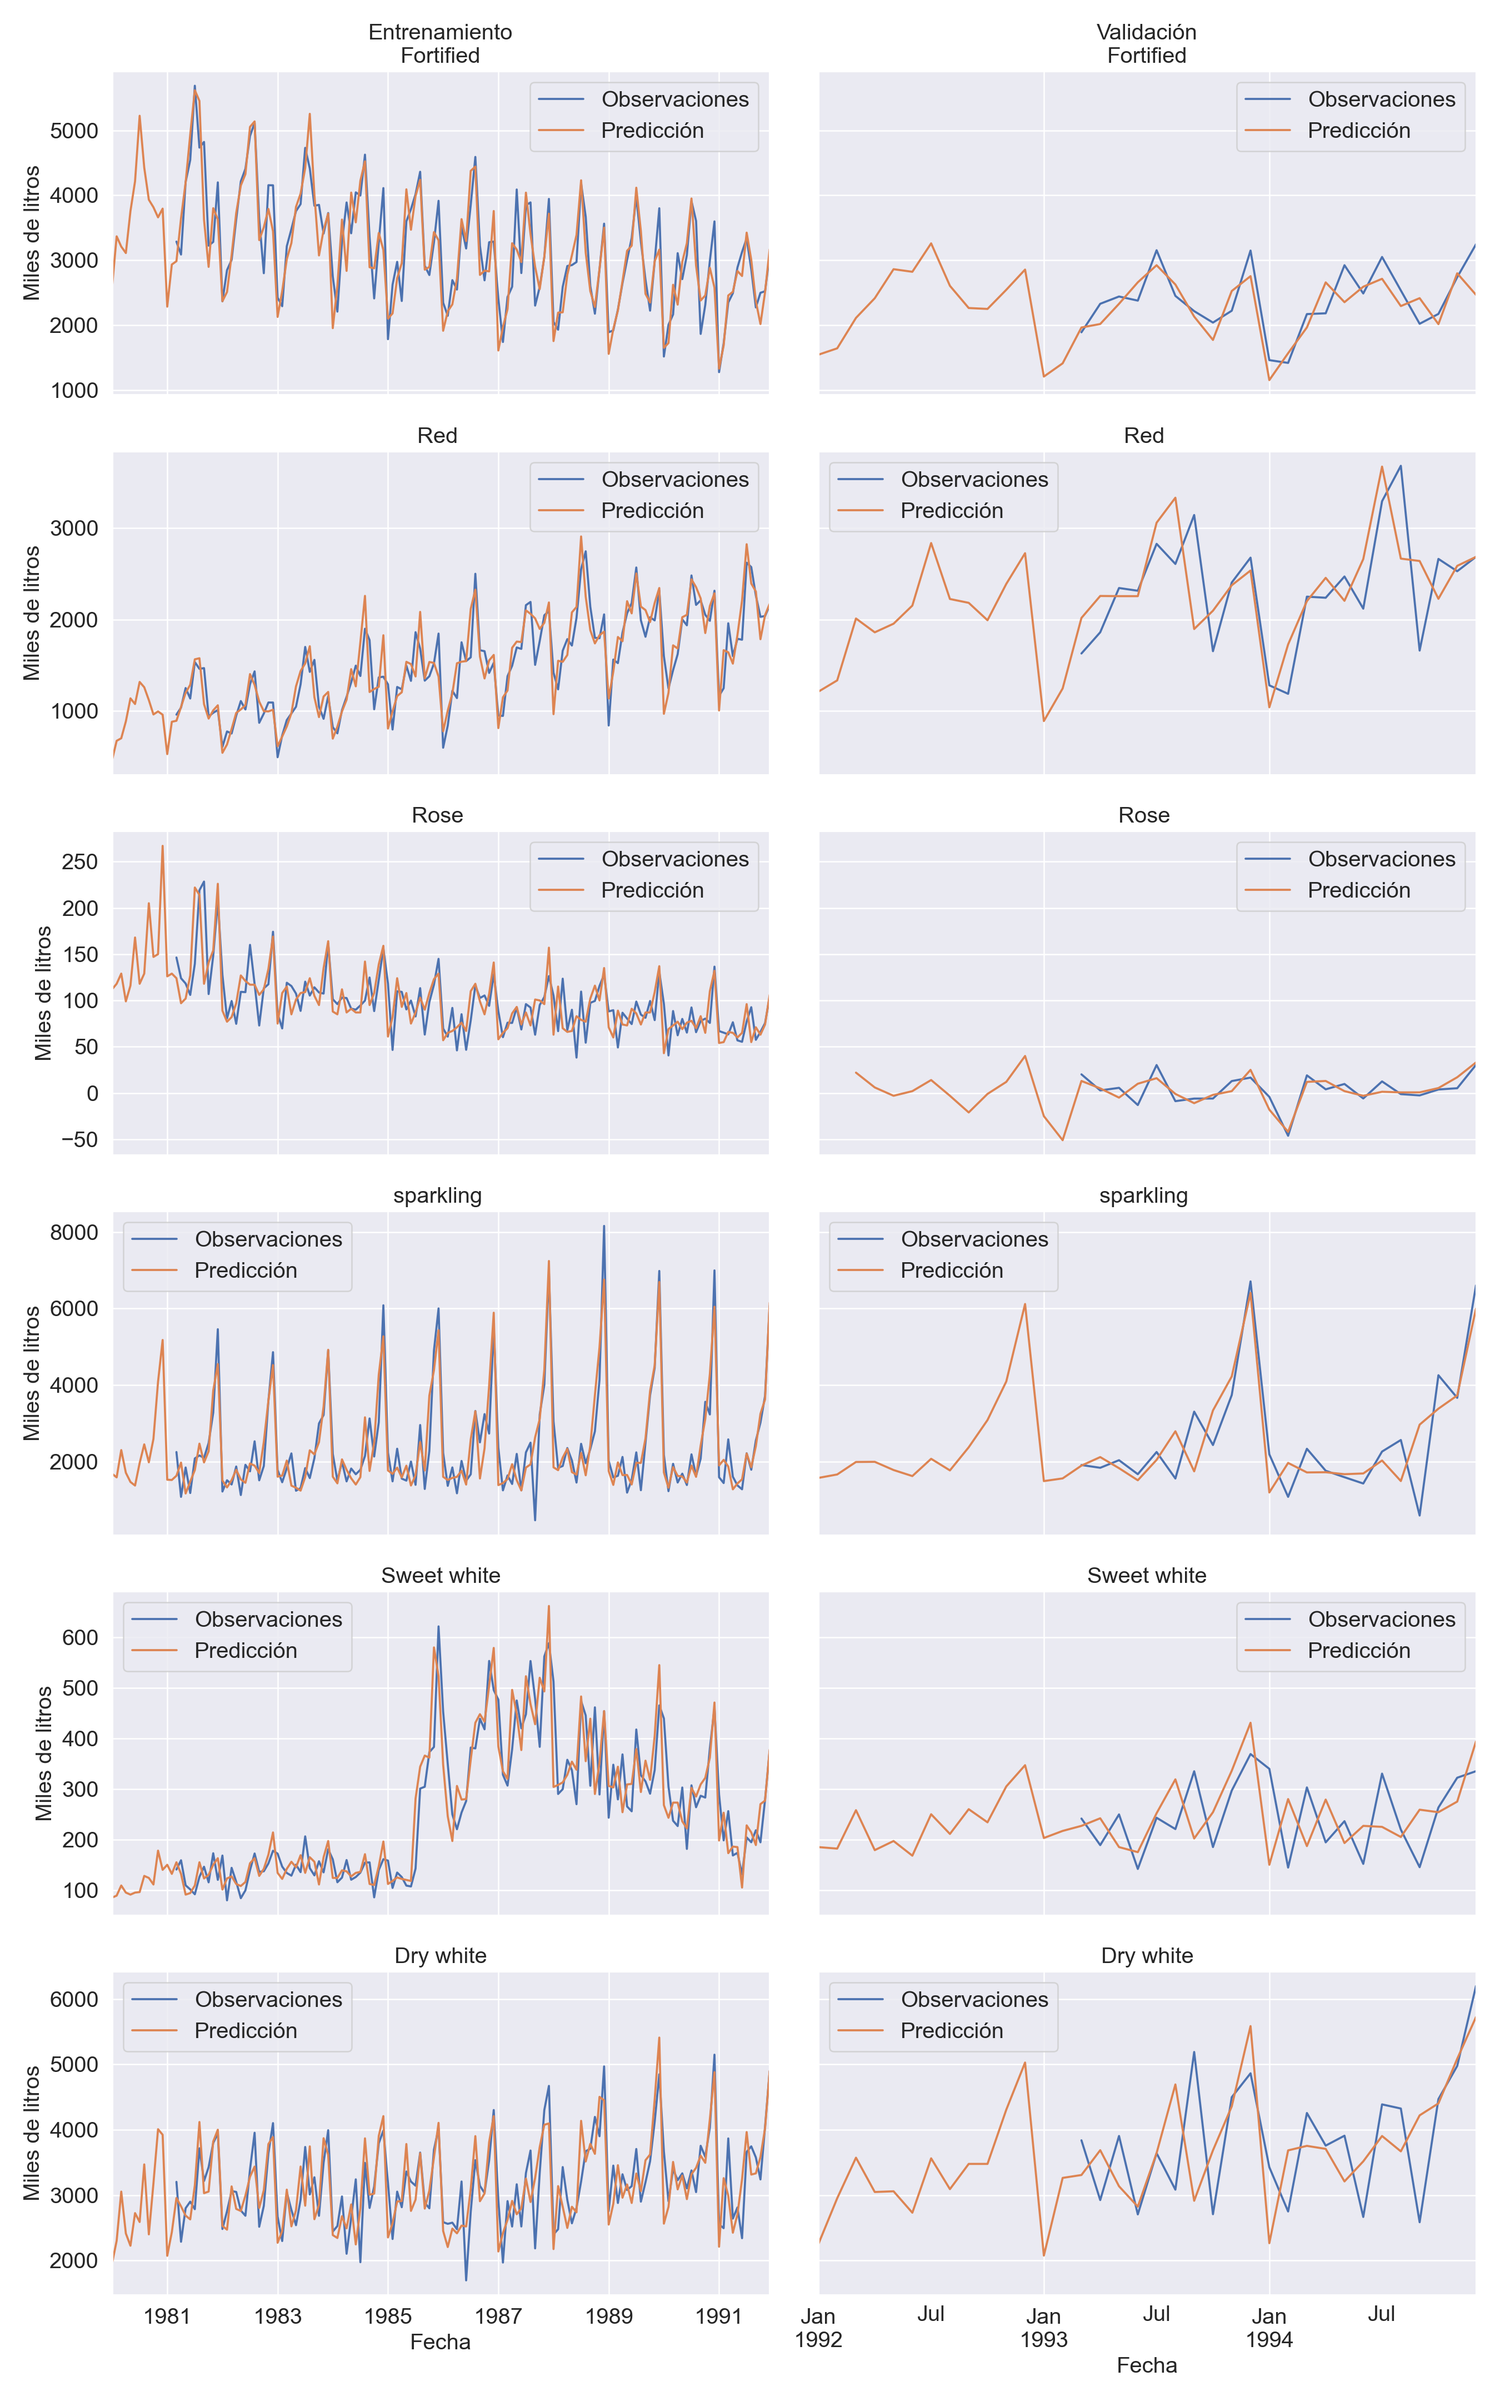
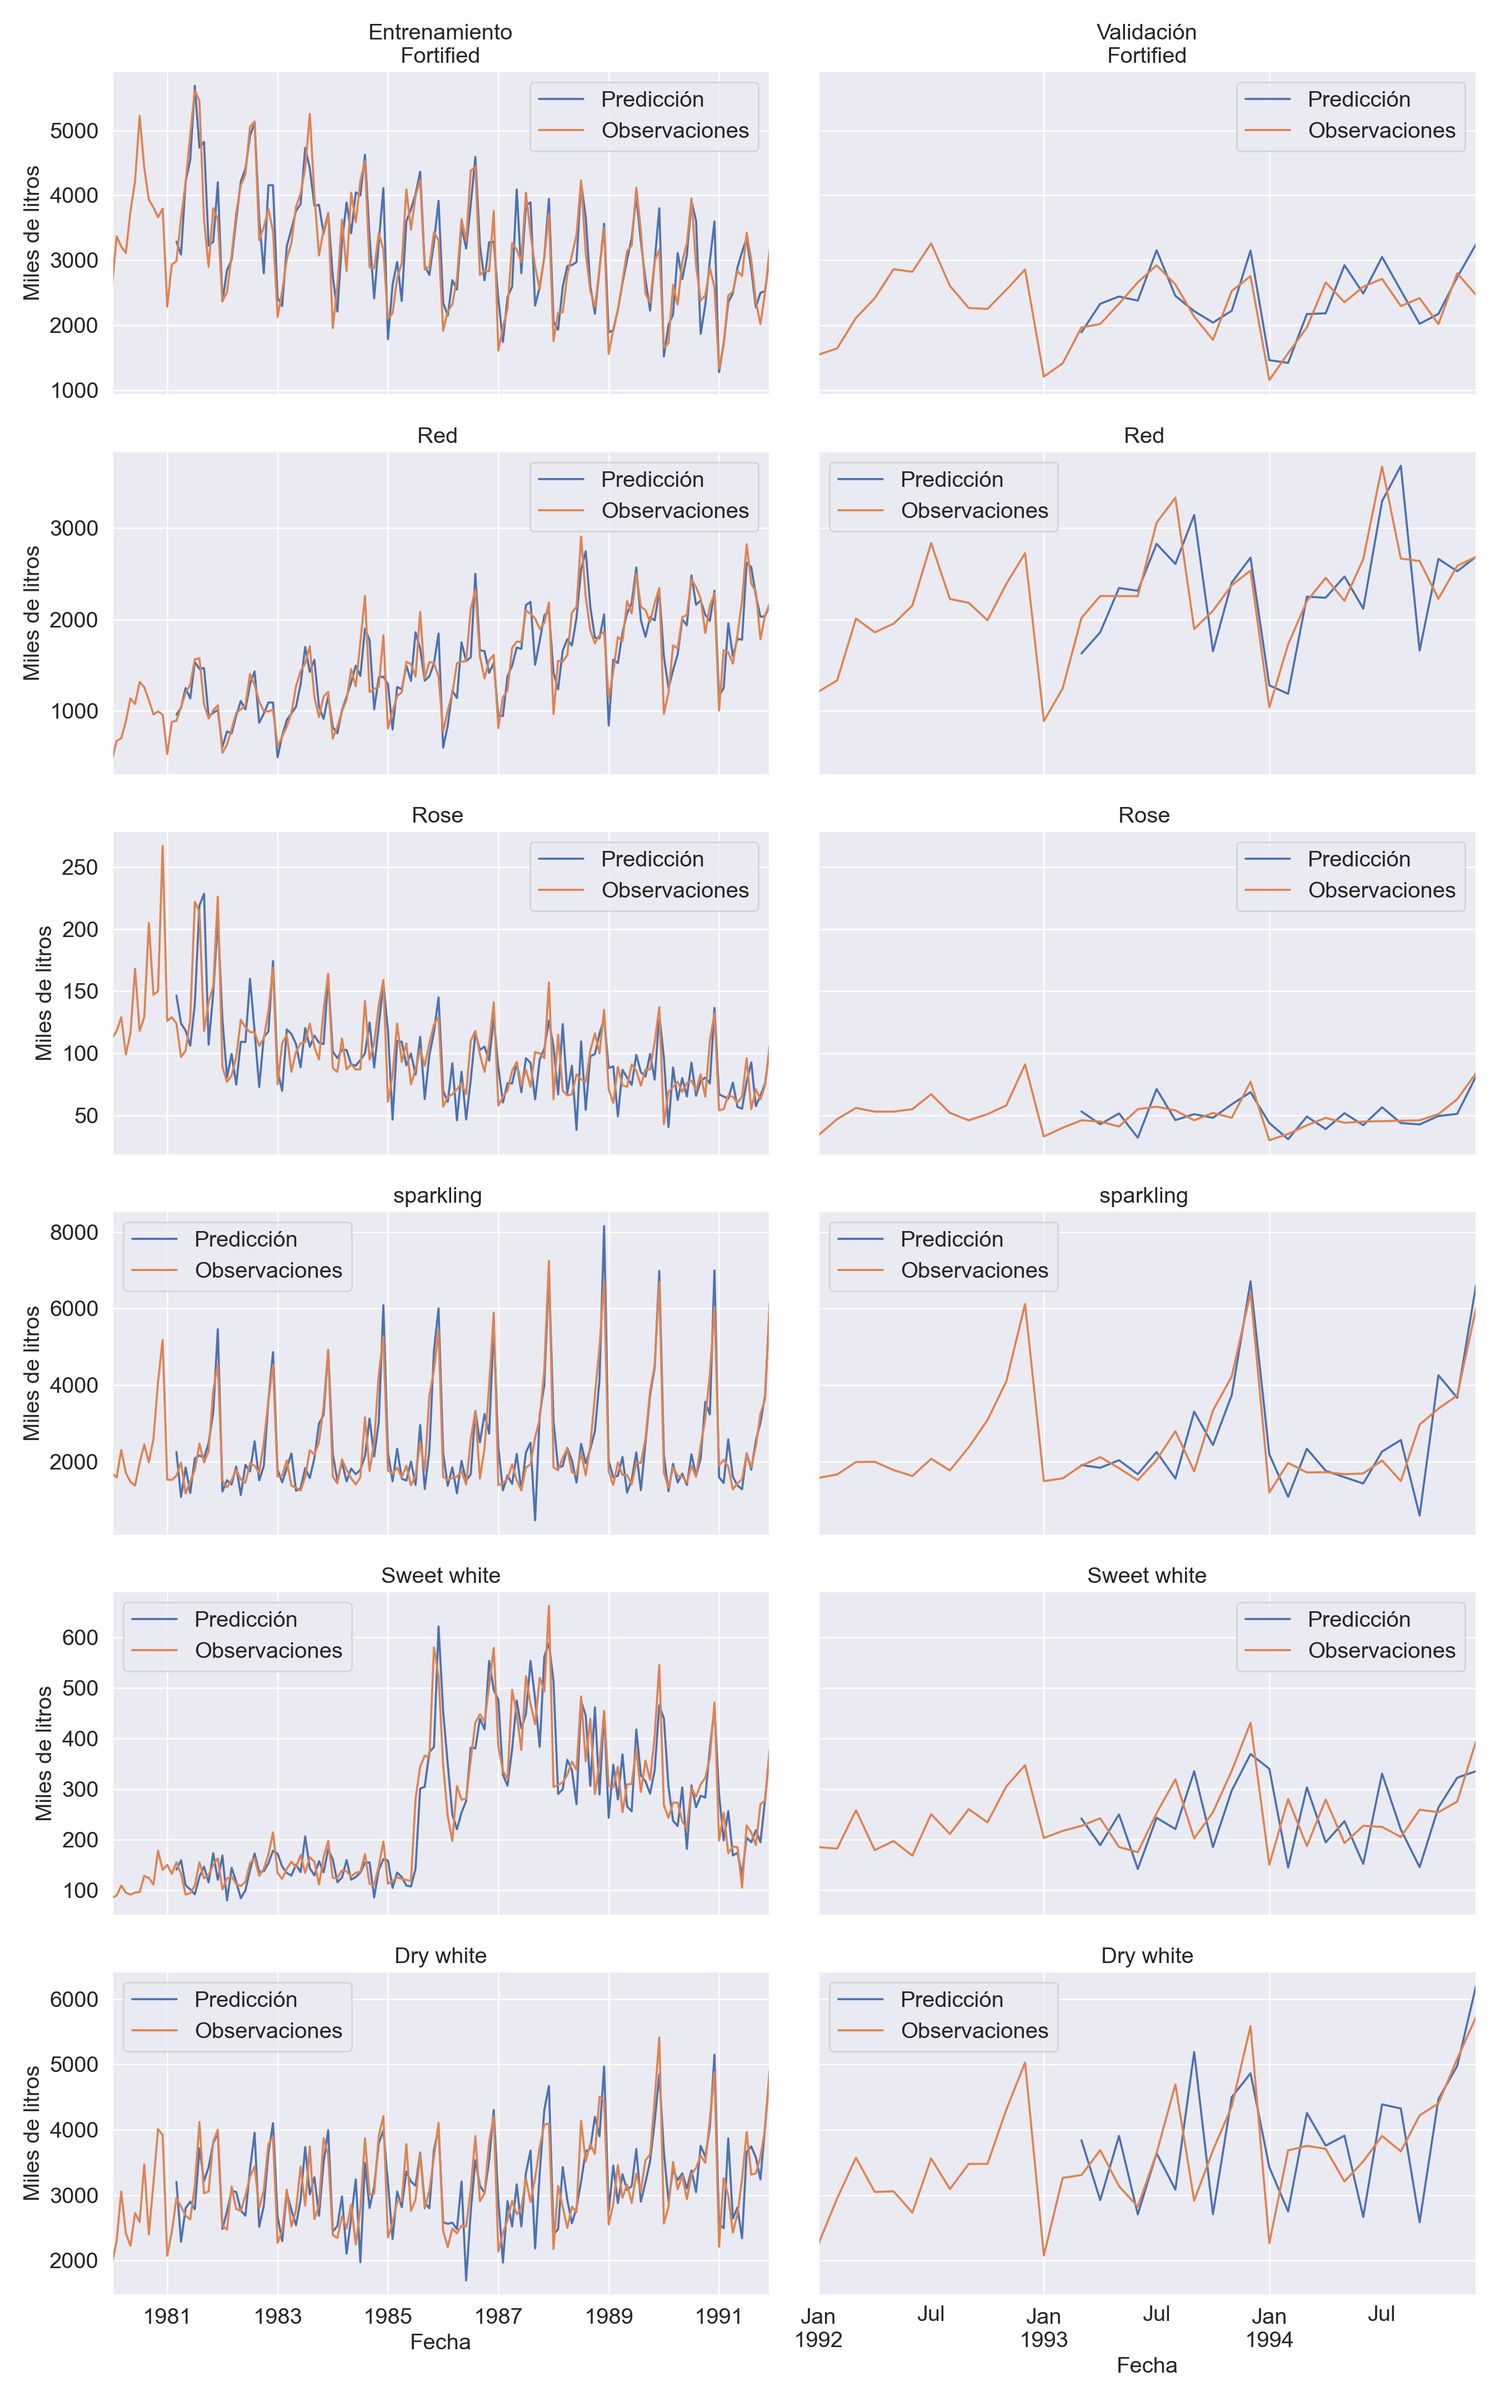
fixes copy bug. adds mlp learning curve

diff --git a/src/TimeSeries/TimeSeries.py b/src/TimeSeries/TimeSeries.py
@@ -18,7 +18,7 @@ class DiffOperation:
         self._data_copy = data.copy(deep=True)
 
     def fit_transform(self, data: pd.Series, interval: int = 1) -> pd.Series:
-        self._data_copy = data
+        self._data_copy = data.copy()
         self._interval = interval
         return self.transform(data)
 
@@ -97,18 +97,6 @@ class TimeSeries:
                            column_name not in [index_col, 'Unnamed: 0']]
         self._index_name = index_col
         self._preprocess()
-
-    def load_dataframe(self, df: pd.DataFrame):
-        """
-        Loads an external dataframe. It is assumed that external df is preprocessed.
-
-        :param df:                              External pandas dataframe
-        """
-        assert type(df.index) == pd.DatetimeIndex
-        self._col_names = [column_name for column_name in self._data.columns]
-        self._data = df
-        for name in self._diff_operators.keys():
-            self._diff_operators[name][-1].fit(df[name])
 
     def _preprocess(self):
         """
@@ -297,25 +285,3 @@ class TimeSeries:
     @property
     def data(self):
         return self._data
-
-
-if __name__ == '__main__':
-    import matplotlib.pyplot as plt
-
-    t = TimeSeries()
-    t.load(file_path='/Users/rudy/Documents/wine_market_temporal_prediction/data/AustralianWines.csv',
-           index_col='Month')
-    name = 'Red '
-    fig, ax = plt.subplots()
-    t[name].plot(ax=ax)
-    t.fit_scale()
-
-    # we extract a part of the serie and sums 1 to each value
-    subt_copy = t[name].copy()
-    subt_copy = subt_copy[10:40]
-
-    subt_inv_scaled = t.inv_scale_serie(name, subt_copy)
-    subt_inv_scaled.plot(ax=ax, label='external inv scaled')
-    t[name].plot(ax=ax, label='original scaled')
-    plt.legend()
-    plt.show()

diff --git a/src/TimeSeries/playground.py b/src/TimeSeries/playground.py
@@ -3,28 +3,32 @@ from src.TimeSeries.TimeSeriesMA import TimeSeriesMA
 if __name__ == '__main__':
     import matplotlib.pyplot as plt
 
-    name = 'Fortified'
-    train, val = TimeSeriesMA(), TimeSeriesMA()
-    train.load("/Users/rudy/Documents/wine_market_temporal_prediction/data/AustralianWinesTrain.csv", index_col='Month')
-    val.load("/Users/rudy/Documents/wine_market_temporal_prediction/data/AustralianWinesTest.csv", index_col='Month')
-
-    train.difference(interval=1)
-    train.difference(interval=1)
-
-    train.fit(name, order=12)
-    val.fit(name, order=12)
-
-    train_ma_pred, train_ma_pred_ci = train.predict_in_sample(name)
-    val_ma_pred, val_ma_pred_ci = val.predict_in_sample(name)
+    name = 'Rose '
 
     _, axs = plt.subplots(nrows=1, ncols=2, figsize=(16, 8))
 
-    train_ma_pred.plot(ax=axs[0], label='Predicción')
+    train, val = TimeSeriesMA(), TimeSeriesMA()
+    train.load("/Users/rudy/Documents/wine_market_temporal_prediction/data/AustralianWinesTrain.csv", index_col='Month')
+    val.load("/Users/rudy/Documents/wine_market_temporal_prediction/data/AustralianWinesTest.csv", index_col='Month')
+    train.plot_serie(name, ax=axs[0])
+    val.plot_serie(name, ax=axs[1])
+
+    train.difference()
+    train.fit_scale()
+
+    val.difference()
+    val = train.scale(val)
+
+    train.inv_scale()
+    train.inv_difference()
+
+    val.inv_scale()
+    val.inv_difference()
+
     train.plot_serie(name, ax=axs[0])
     axs[0].set(xlabel='Fecha', ylabel='Miles de litros', title='Entrenamiento')
 
     # plot results
-    val_ma_pred.plot(ax=axs[1], label='Predicción')
     val.plot_serie(name, ax=axs[1])
     axs[1].set(xlabel='Fecha', ylabel='Miles de litros', title='Validación')
 

diff --git a/src/MLP/main.py b/src/MLP/main.py
@@ -79,13 +79,13 @@ if __name__ == '__main__':
         # torch.save(model.state_dict(), os.path.join(repo_path, f'data/model_{name}.pt'))
 
         # plot train
-        train_result_inverted.plot(ax=axs[i, 0], label='Observaciones')
-        t_train[name].plot(ax=axs[i, 0], label='Predicción', title=name)
+        train_result_inverted.plot(ax=axs[i, 0], label='Predicción')
+        t_train[name].plot(ax=axs[i, 0], label='Observaciones', title=name)
         axs[i, 0].legend()
 
         # plot valid
-        val_result_inverted.plot(ax=axs[i, 1], label='Observaciones')
-        t_valid[name].plot(ax=axs[i, 1], label='Predicción', title=name)
+        val_result_inverted.plot(ax=axs[i, 1], label='Predicción')
+        t_valid[name].plot(ax=axs[i, 1], label='Observaciones', title=name)
         axs[i, 1].legend()
 
     axs[0, 0].set(title=f'Entrenamiento\n{wine_names[0]}')

diff --git a/src/TimeSeries/TimeSeriesAnalysis.py b/src/TimeSeries/TimeSeriesAnalysis.py
@@ -157,4 +157,4 @@ if __name__ == '__main__':
     t.load("/Users/rudy/Documents/wine_market_temporal_prediction/data/AustralianWines.csv", index_col='Month')
     t.report_stationary(verbose=False)
     t.difference(interval=1)
-    t.report_stationary()
+    t.report_stationary(verbose=True)
